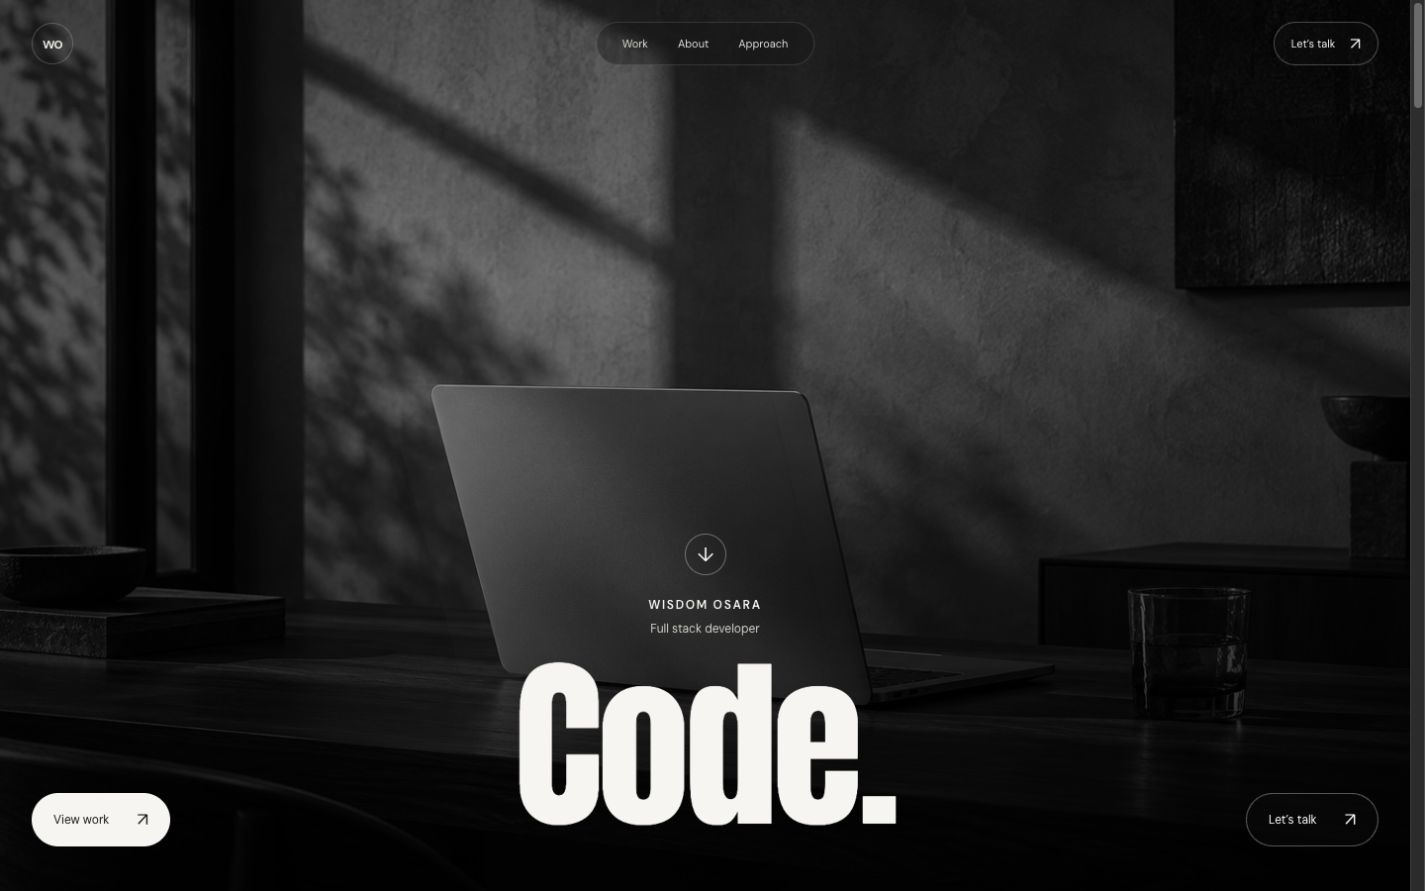
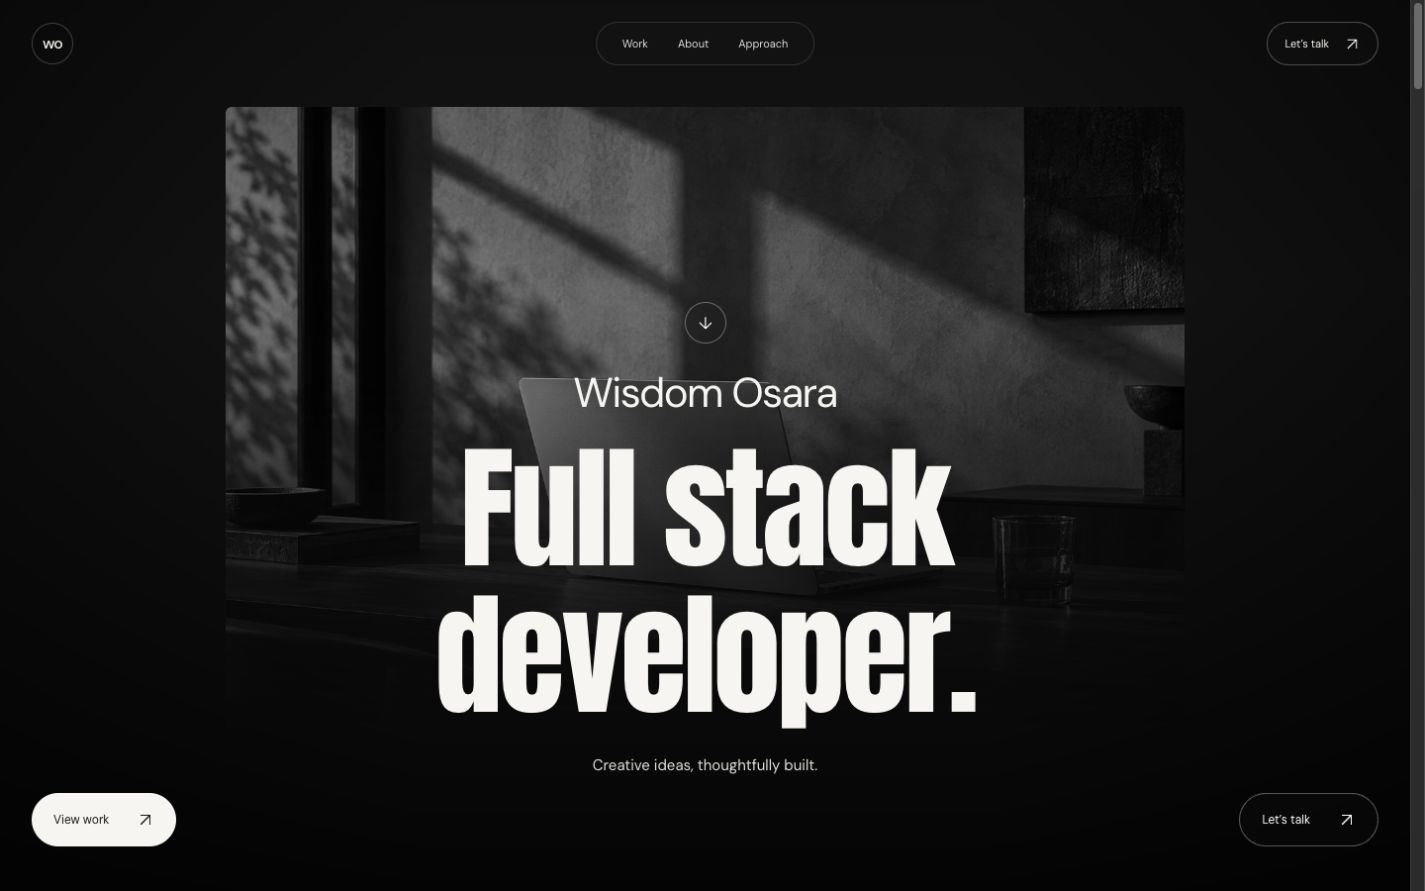
Lead hero with name and developer title and reduce image size

diff --git a/assets/css/identity.css b/assets/css/identity.css
@@ -75,9 +75,11 @@
 }
 .identity-visual {
   position: absolute;
-  inset: 0;
+  inset: 12% 16% 18%;
   z-index: -2;
   overflow: hidden;
+  border-radius: 6px;
+  mask-image: linear-gradient(#000 45%, transparent 100%);
 }
 .identity-image {
   position: absolute;
@@ -119,28 +121,30 @@
   position: absolute;
   left: 0;
   right: 0;
-  bottom: 42px;
+  bottom: 116px;
+  padding-inline: 22px;
   text-align: center;
   transform: translateY(calc(var(--hero-drift, 0) * -38px));
 }
 .identity-greeting {
-  font-size: 12px;
-  letter-spacing: 0.14em;
-  text-transform: uppercase;
-  font-weight: 600;
-  margin-bottom: 8px;
+  font-size: clamp(28px, 3vw, 42px);
+  letter-spacing: -0.04em;
+  font-weight: 400;
+  margin-bottom: 18px;
 }
-.identity-role {
-  font-size: 12px;
-  color: #d2d2cc;
+.identity-tagline {
+  margin-top: 24px;
+  font-size: 15px;
+  line-height: 1.5;
+  color: #e0e0da;
 }
 .identity-name {
   font-family: "Anton", "Arial Narrow", sans-serif;
-  font-size: clamp(110px, 13vw, 220px);
+  font-size: clamp(76px, 9.5vw, 150px);
   font-weight: 400;
   line-height: 1.04;
   letter-spacing: -0.025em;
-  margin-top: 13px;
+  margin-top: 0;
 }
 .identity-name:focus {
   outline: none;
@@ -189,6 +193,7 @@
   background: #f6f5f1;
   color: #171717;
   font-size: 12px;
+  white-space: nowrap;
   transition:
     background 0.3s,
     color 0.3s;
@@ -313,15 +318,17 @@
 .hero-enter .site-header {
   animation: hero-content-in 0.7s var(--ease) both;
 }
-.hero-enter .identity-greeting,
-.hero-enter .identity-role {
+.hero-enter .identity-greeting {
   animation: hero-content-in 0.7s 0.1s var(--ease) both;
 }
 .hero-enter .name-mask > span {
   animation: hero-name-in 1s 0.12s var(--ease) both;
 }
-.hero-enter .name-mask > em {
-  animation: hero-name-in 1s 0.25s var(--ease) both;
+.hero-enter .name-mask:nth-child(2) > span {
+  animation-delay: 0.25s;
+}
+.hero-enter .identity-tagline {
+  animation: hero-content-in 0.85s 0.4s var(--ease) both;
 }
 .hero-enter .identity-actions {
   animation: hero-content-in 0.85s 0.4s var(--ease) both;
@@ -388,10 +395,10 @@
     font-size: 10px;
   }
   .identity-copy {
-    bottom: 110px;
+    bottom: 120px;
   }
   .identity-name {
-    font-size: clamp(120px, 24vw, 175px);
+    font-size: clamp(48px, 14vw, 96px);
   }
   .identity-actions {
     left: 22px;
@@ -401,17 +408,22 @@
     gap: 12px;
   }
   .hero-button {
-    padding: 13px 20px;
-    gap: 22px;
+    padding: 13px 16px;
+    gap: 14px;
   }
   .identity-greeting {
-    font-size: 11px;
+    font-size: clamp(24px, 6vw, 32px);
+    margin-bottom: 16px;
   }
-  .identity-role {
-    font-size: 11px;
+  .identity-tagline {
+    font-size: 13px;
+    margin-top: 22px;
   }
   .identity-image img {
     object-position: 50% 50%;
+  }
+  .identity-visual {
+    inset: 21% 16% 41%;
   }
 }
 @media (max-width: 600px) {
@@ -447,10 +459,13 @@
     min-height: 540px;
   }
   .identity-name {
-    font-size: 125px;
+    font-size: clamp(64px, 8vw, 92px);
+  }
+  .identity-greeting {
+    font-size: 26px;
   }
   .identity-copy {
-    bottom: 24px;
+    bottom: 105px;
   }
   .hero-scroll {
     margin-bottom: 15px;

diff --git a/index.html b/index.html
@@ -73,9 +73,9 @@
       rel="stylesheet"
       href="./assets/css/scroll-scenes.css?v=safari-overflow-1"
     />
-    <link rel="stylesheet" href="./assets/css/identity.css?v=cinematic-hero" />
+    <link rel="stylesheet" href="./assets/css/identity.css?v=personal-hero-1" />
     <script src="./scripts/intro.js?v=stack-shutters" defer></script>
-    <script src="./scripts/portfolio.js?v=current-products" defer></script>
+    <script src="./scripts/portfolio.js?v=personal-hero-1" defer></script>
     <script
       src="./scripts/scroll-scenes.js?v=footer-completion-1"
       defer
@@ -166,15 +166,16 @@
             ><span aria-hidden="true"><svg class="icon-arrow" viewBox="0 0 24 24" fill="none" stroke="currentColor" stroke-width="1.5" stroke-linecap="round" stroke-linejoin="round" aria-hidden="true" focusable="false"><path d="M12 5v14M5 12l7 7 7-7" /></svg></span></a
           >
           <p class="identity-greeting hero-arrival">Wisdom Osara</p>
-          <p class="identity-role hero-arrival">Full stack developer</p>
           <h1
             class="identity-name"
             id="hero-title"
             tabindex="-1"
-            aria-label="Code. Wisdom Osara, full stack developer"
+            aria-label="Wisdom Osara, full stack developer"
           >
-            <span class="name-mask"><span>Code.</span></span>
+            <span class="name-mask"><span>Full stack</span></span>
+            <span class="name-mask"><span>developer.</span></span>
           </h1>
+          <p class="identity-tagline hero-arrival">Creative ideas, thoughtfully built.</p>
         </div>
         <div class="identity-actions hero-arrival">
           <a class="hero-button" href="#work"
@@ -384,8 +385,8 @@
                     <div class="project-image">
                       <div class="browser-frame">
                         <img
-                          src="./assets/images/projects/wisdom-osara.jpg"
-                          alt="The new Wisdom Osara portfolio hero with Code over a monochrome studio image"
+                          src="./assets/images/projects/wisdom-osara.jpg?v=personal-hero-1"
+                          alt="The new Wisdom Osara portfolio hero with his name and full stack developer headline"
                           width="1425"
                           height="891"
                           loading="lazy"

diff --git a/scripts/portfolio.js b/scripts/portfolio.js
@@ -154,8 +154,8 @@
     portfolio: {
       title: "Wisdom Osara",
       category: "PERSONAL PORTFOLIO",
-      image: "projects/wisdom-osara.jpg",
-      alt: "The new Wisdom Osara portfolio hero with Code over a monochrome studio image",
+      image: "projects/wisdom-osara.jpg?v=personal-hero-1",
+      alt: "The new Wisdom Osara portfolio hero with his name and full stack developer headline",
       description:
         "My portfolio, built around clean design and considered motion.",
       technologies: ["HTML", "CSS", "JavaScript"],

diff --git a/README.md b/README.md
@@ -27,7 +27,7 @@ Open http://127.0.0.1:4173.
 
 When changing a project, update both its HTML link/card and its entry in the `projects` object. The résumé and Global Adventures project are retained from the original portfolio. Current selected products: Properties Haven, Parallel, Worlds, GrowLarge Digital, Wisdom Osara, and Global Adventures. Tech stacks for external products are intentionally unspecified.
 
-Animation follows the device’s reduced-motion preference automatically. The full-screen hero uses a monochrome studio image, subtle image layering, floating navigation, and a condensed “Code.” title with name, role, and two links. It stays face-free. Anton is self-hosted alongside its OFL license. Five staggered shutters animate away before the hero reveals; skip and Escape dismiss them. Deep links and reduced motion bypass the intro. Without JavaScript, content remains visible.
+Animation follows the device’s reduced-motion preference automatically. The full-screen hero uses a smaller inset monochrome studio image, subtle image layering, floating navigation, a prominent name, and an oversized two-line “Full stack developer.” headline. A short creativity line and two links complete the introduction. It stays face-free. Anton is self-hosted alongside its OFL license. Five staggered shutters animate away before the hero reveals; skip and Escape dismiss them. Deep links and reduced motion bypass the intro. Without JavaScript, content remains visible.
 
 On viewports at least 600px high, when every card fits with room to spare, project panels stick and stack vertically, gently scaling and dimming beneath the next panel. The About statement fills as it scrolls into view, followed by a short bio, résumé link, and a plain technology list. Three compact, full-width process rows reveal their background and titles with scroll progress. Reveals start when content reaches 68% of the viewport height and re-arm after it leaves below the screen. The work title reveals line by line. About/process/contact effects run from 68% to 25% of the viewport, keeping their motion visible while reading. Their end positions are capped to the available document scroll distance so the final process row and contact heading complete at the bottom. Contact text remains unclipped throughout its shorter entrance. Native scrolling also drives image depth and card stacking. Phone cards use a compact vertical layout and the same sticky stack, with a single outlined arrow beside the title. Short viewports or enlarged text that prevents the cards fitting retain normal flow; reduced motion disables the effects. Process title movement stays inside the section to prevent horizontal scrollbars during entrances. Arrow icons use SVG paths to avoid emoji substitution in Safari. No wheel interception or perpetual rendering loop is used.
 
